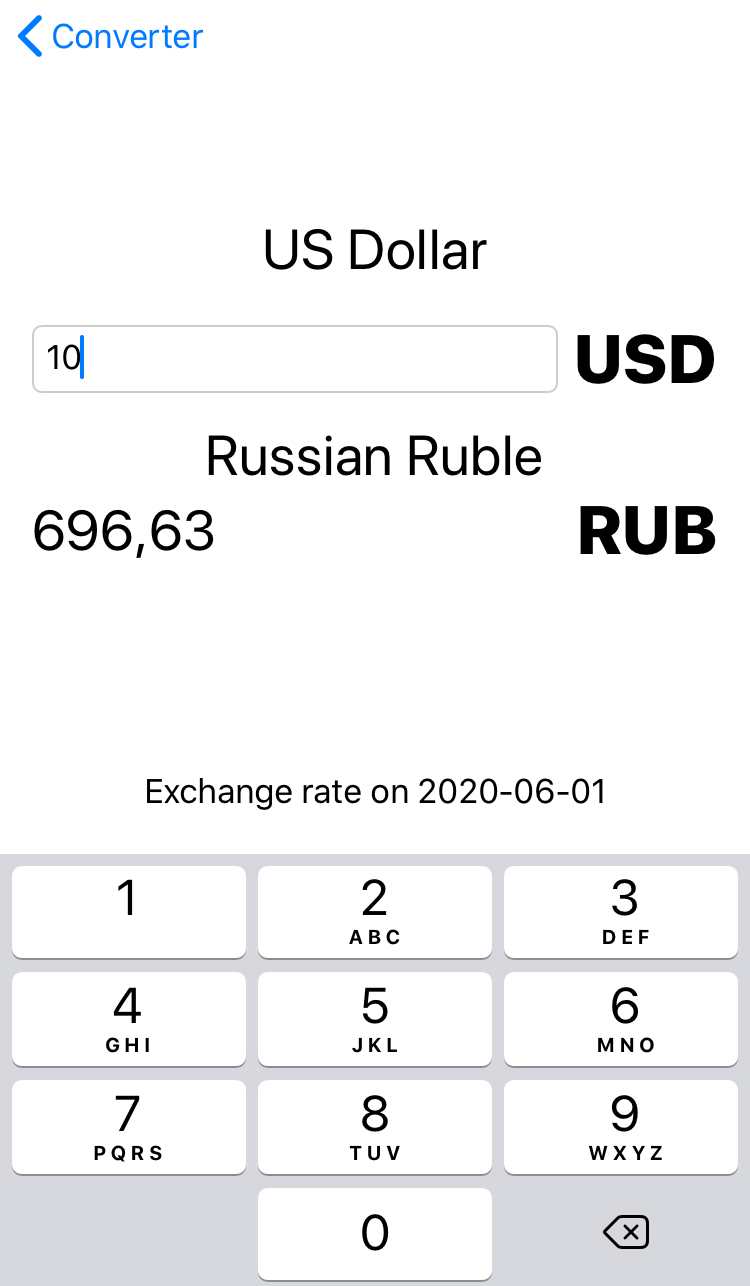
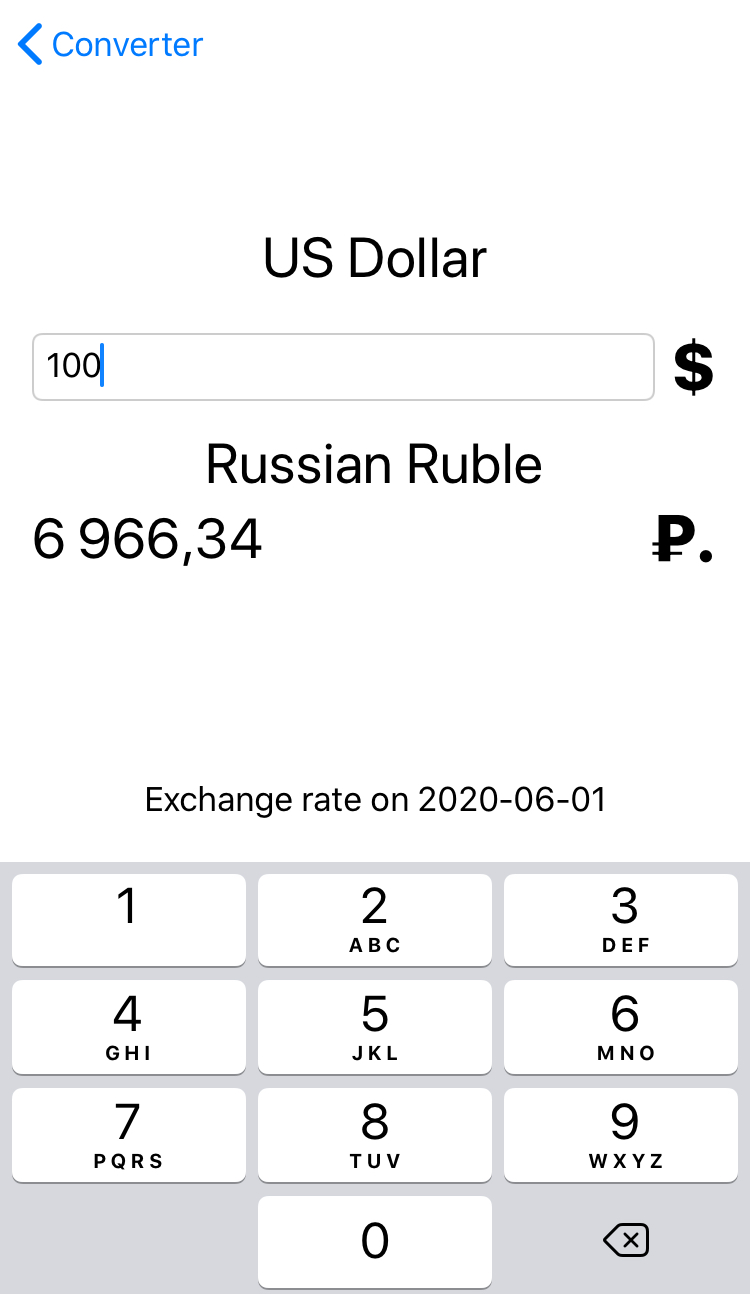
Add files via upload

diff --git a/CurrencyApp/CurrencyApp/CurrencyCell.swift b/CurrencyApp/CurrencyApp/CurrencyCell.swift
@@ -24,12 +24,12 @@ struct CurrencyExtendedCell: View {
                 .font(.title)
             
             HStack {
-                TextField("1 \(CurrencyInfo[base]!["symbol"] as! String)", text: $amount)
+                TextField("1 \(CurrencyInfo[base]!["symbol_native"] as! String)", text: $amount)
                     .textFieldStyle(RoundedBorderTextFieldStyle())
                     .keyboardType(.numberPad)
                 
                 
-                Text(base)
+                Text(CurrencyInfo[base]!["symbol_native"] as! String)
                     .font(.largeTitle)
                     .fontWeight(.heavy)
                 
@@ -49,13 +49,13 @@ struct CurrencyExtendedCell: View {
                 
                 Spacer()
                 
-                Text(name)
+                Text(CurrencyInfo[name]!["symbol_native"] as! String)
                     .font(.largeTitle)
                     .fontWeight(.heavy)
                 
             }
-            Spacer()
             Text("Exchange rate on \(self.date)")
+                .padding(.top, 100)
             Spacer()
             
         }
@@ -74,7 +74,7 @@ struct CurrencyCell: View {
         HStack {
             Text(CurrencyInfo[name]!["name"] as! String)
             Spacer()
-            Text("\((Double(self.amount) ?? 1) * rate, specifier: "%.2f") \(CurrencyInfo[name]!["symbol"] as! String)")
+            Text("\((Double(self.amount) ?? 1) * rate, specifier: "%.2f") \(CurrencyInfo[name]!["symbol_native"] as! String)")
         }
     }
 }

diff --git a/CurrencyApp/CurrencyApp/ContentView.swift b/CurrencyApp/CurrencyApp/ContentView.swift
@@ -25,7 +25,7 @@ struct ContentView: View {
     var body: some View {
         NavigationView {
             VStack {
-                TextField("1 \(CurrencyInfo[base_currency]!["symbol"] as! String)", text: $amount)
+                TextField("1 \(CurrencyInfo[base_currency]!["symbol_native"] as! String)", text: $amount)
                     .textFieldStyle(RoundedBorderTextFieldStyle())
                     .keyboardType(.numberPad)
                     .padding()
